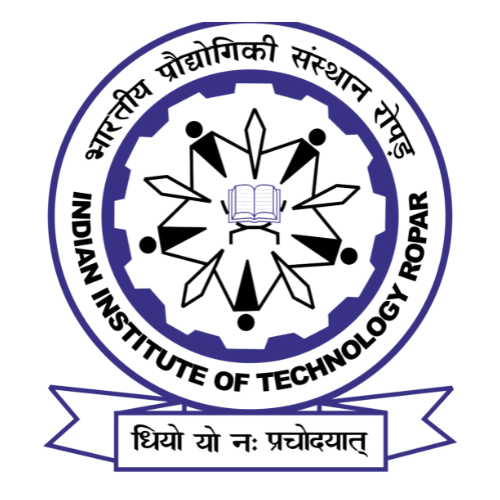
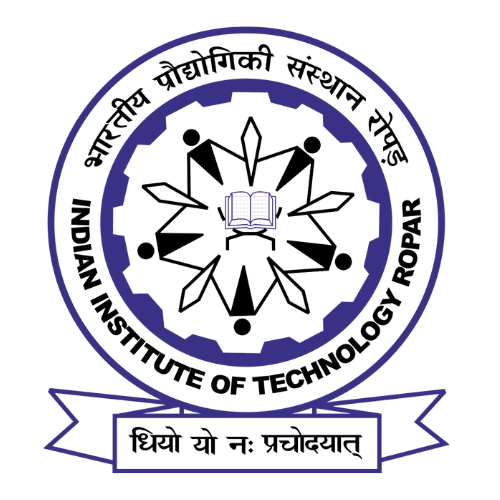
Refactor Awards and Contact components for improved styling and functionality
- Updated text styling in Awards component for better readability.
- Enhanced title formatting in Awards component to capitalize each word.
- Adjusted height of message input in Contact component for better user experience.
- Commented out unused phone number section in Contact component to clean up the layout.
- Modified tab styling in CampusRecruitment component for improved visual consistency and added background color.
- Renamed internship tab to "Summer Internship Companies" for clarity.
- Updated logo image in partners directory.

Changed region(s): [[0.09, 0.03, 0.93, 0.96]]

diff --git a/src/app/placements/CampusRecruitment.jsx b/src/app/placements/CampusRecruitment.jsx
@@ -120,18 +120,18 @@ function CompanyLogos() {
           </p>
         ) : (
           <Tabs defaultValue="final" className="max-w-6xl mx-auto mb-10">
-            <TabsList className="grid sm:w-full sm:grid-cols-2 h-max gap-2 sm:h-14 w-fit mx-auto">
+            <TabsList className="grid sm:w-full sm:grid-cols-2 h-max gap-2 sm:h-14 w-fit mx-auto bg-slate-100">
               <TabsTrigger
                 value="final"
-                className="text-base data-[state=active]:bg-pink-900 data-[state=active]:text-white"
+                className="text-base  data-[state=active]:bg-pink-900 data-[state=active]:text-white sm:font-bold"
               >
                 Final Placement Companies
               </TabsTrigger>
               <TabsTrigger
                 value="internship"
-                className="text-base data-[state=active]:bg-pink-900 data-[state=active]:text-white"
+                className="text-base data-[state=active]:bg-pink-900 data-[state=active]:text-white sm:font-bold"
               >
-                Internship Placement Companies
+                Summer Internship Companies
               </TabsTrigger>
             </TabsList>
 

diff --git a/src/app/contact/Contact.jsx b/src/app/contact/Contact.jsx
@@ -65,7 +65,7 @@ function ContactForm() {
           id="message"
           placeholder="Your Message"
           required
-          className="h-[7rem]"
+          className="h-[5rem]"
         />
       </div>
       <Button
@@ -132,12 +132,12 @@ function CorporateResourceCentreHead() {
         <Phone className="w-5 h-5 text-pink-900" />
         <span>+91-9313556551</span>
       </div>
-      <div className="flex items-center space-x-3 text-gray-600">
+      {/* <div className="flex items-center space-x-3 text-gray-600">
         <Phone className="w-5 h-5 text-pink-900" />
         <span>011-41324850</span>
         <Phone className="w-5 h-5 text-pink-900" />
         <span>011-26965558</span>
-      </div>
+      </div> */}
       <div className="flex items-center space-x-3 text-gray-600">
         <Mail className="w-5 h-5 text-pink-900" />
         <span>immplacement1@gmail.com</span>

diff --git a/src/app/about/Awards.jsx b/src/app/about/Awards.jsx
@@ -139,9 +139,11 @@ const CardItem = ({ item, index }) => (
         duration: 0.5,
         delay: 0.2 + index * 0.1,
       }}
-      className="text-[17px] text-white font-medium leading-relaxed mb-0 text-center"
+      className="text-base text-white font-medium leading-relaxed mb-0 text-center"
     >
-      {item.title}
+      {item.title.split(' ').map(word => word.charAt(0).toUpperCase() + word.slice(1).toLowerCase()).join(' ')}
+
+      HELLO BOY
     </motion.h5>
   </motion.div>
 );
